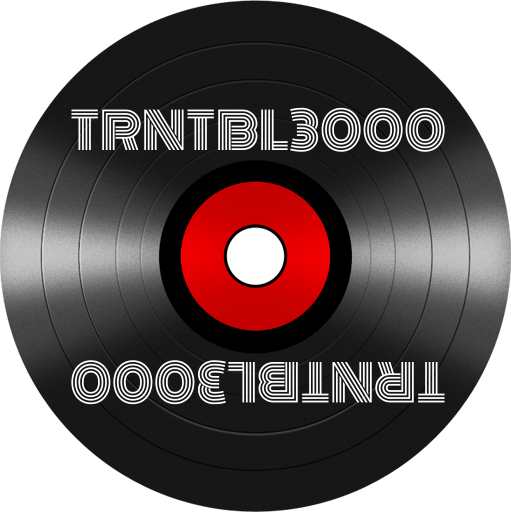
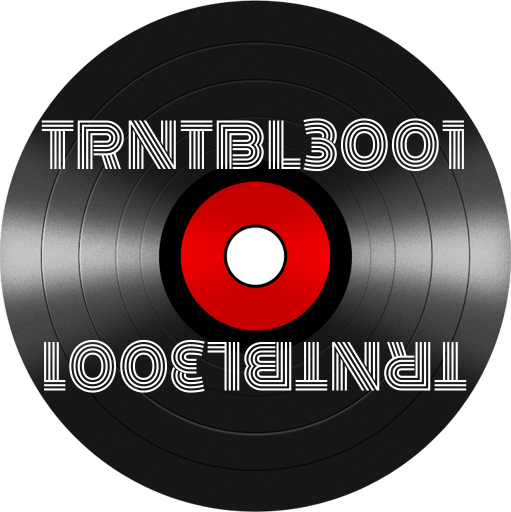
changed brand assets, linked to partners

Changed region(s): [[0.0881, 0.6562, 0.91, 0.8125], [0.0881, 0.1875, 0.91, 0.3438]]

diff --git a/client/index.html b/client/index.html
@@ -4,7 +4,7 @@
 <head>
   <meta charset="UTF-8">
 
-  <title>TRNTBL3000</title>
+  <title>TRNTBL3001</title>
   <link href="assets/favicon.png" rel="shortcut icon" type="image/x-icon" />
   <!-- Latest compiled and minified CSS -->
   <link rel="stylesheet" href="https://maxcdn.bootstrapcdn.com/bootstrap/3.3.5/css/bootstrap.min.css">
@@ -22,7 +22,7 @@
   <!-- header -->
   <div class="night-hotel">
     <center>
-      <h1 id="logo">trntbl3000</h1>
+      <h1 id="logo">trntbl3001</h1>
     </center>
   </div>
 
@@ -35,6 +35,10 @@
     </span>
 
     <span id="sliderContainer" class="col-md-2">
+      <p>
+        Forked from <a href="http://trntbl3000.herokuapp.com">trntbl3000</a>
+        </br>Parntered with <a href="http://yt-oke.herokuapp.com">YT-oke</a>
+      </p>
       <button class="pad" id="airHorn" ></button>
     </span>
 
